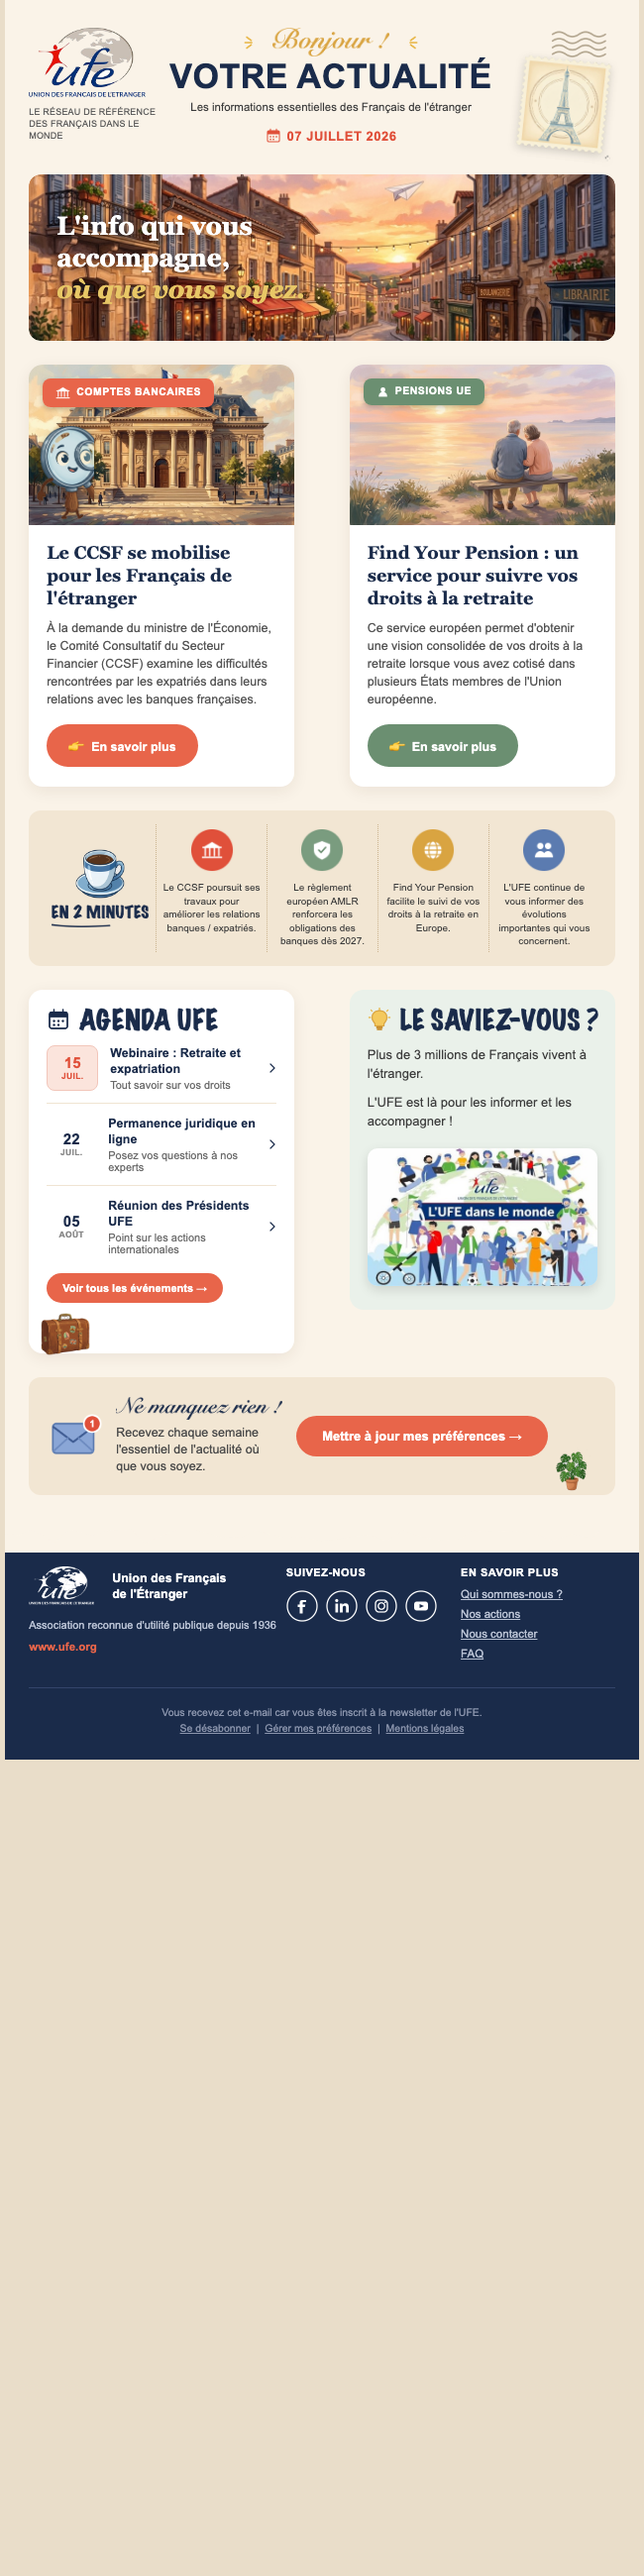
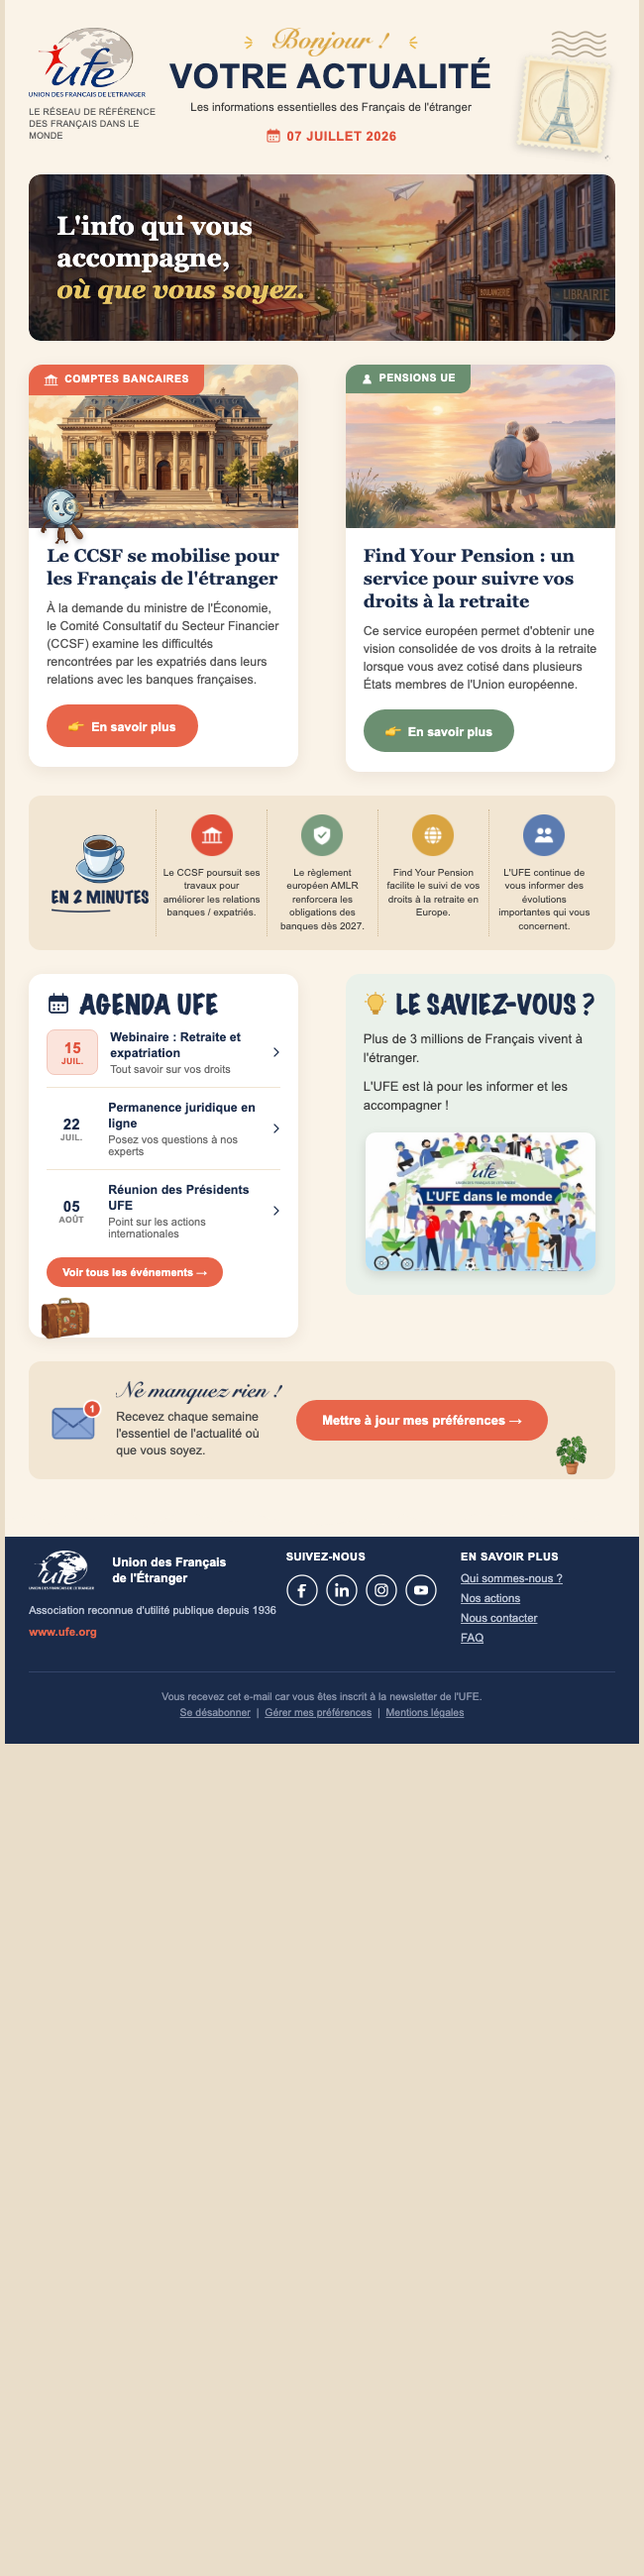
Polish cards, mascot, hero and gaps
- Reduce inter-card gap to 8px (272px cards)
- Category tags flush to the top-left card corner, radius following the card
- Magnifying-glass mascot: use full illustration (light-beam removed, blue glass
  preserved), smaller, straddling the image bottom edge
- Darken hero banner with a left-weighted overlay so the headline pops

Changed region(s): [[0.0, 0.0623, 0.9846, 0.6854]]

diff --git a/newsletter.html b/newsletter.html
@@ -120,18 +120,18 @@
     <td class="px-mobile" style="padding:0 24px 24px 24px; background-color:#faf3e8;">
       <!--[if mso]>
       <table role="presentation" width="100%" cellpadding="0" cellspacing="0" border="0"><tr>
-      <td width="268" valign="top">
+      <td width="272" valign="top">
       <![endif]-->
       <!-- CARD 1 : COMPTES BANCAIRES -->
-      <table role="presentation" class="stack-col" width="268" cellpadding="0" cellspacing="0" border="0" align="left" style="width:268px; max-width:268px; display:inline-block; vertical-align:top; background-color:#ffffff; border-radius:14px; box-shadow:0 4px 16px rgba(60,40,20,.08);">
+      <table role="presentation" class="stack-col" width="272" cellpadding="0" cellspacing="0" border="0" align="left" style="width:272px; max-width:272px; display:inline-block; vertical-align:top; background-color:#ffffff; border-radius:14px; box-shadow:0 4px 16px rgba(60,40,20,.08);">
         <tr>
           <td style="padding:0; position:relative; line-height:0; font-size:0;">
-            <img src="assets/bank-card.jpg" width="268" alt="Façade de la Banque de France à Paris" style="display:block; width:100%; max-width:268px; height:auto; border-radius:14px 14px 0 0;">
+            <img src="assets/bank-card.jpg" width="272" alt="Façade de la Banque de France à Paris" style="display:block; width:100%; max-width:272px; height:auto; border-radius:14px 14px 0 0;">
             <!--[if !mso]><!-->
-            <div style="position:absolute; top:14px; left:14px; z-index:2;">
-              <table role="presentation" cellpadding="0" cellspacing="0" border="0" style="box-shadow:0 2px 5px rgba(0,0,0,.22); border-radius:8px;">
+            <div style="position:absolute; top:0; left:0; z-index:2;">
+              <table role="presentation" cellpadding="0" cellspacing="0" border="0">
                 <tr>
-                  <td style="background-color:#e8654a; border-radius:8px; padding:7px 13px;">
+                  <td style="background-color:#e8654a; border-radius:14px 0 10px 0; padding:8px 15px 8px 15px;">
                     <table role="presentation" cellpadding="0" cellspacing="0" border="0"><tr>
                       <td valign="middle" style="padding-right:6px;"><img src="assets/icons/glyph-bank-white.png" width="15" alt="" style="display:block; width:15px;"></td>
                       <td valign="middle"><span style="font-family:Arial, Helvetica, sans-serif; font-size:10.5px; font-weight:bold; color:#ffffff; letter-spacing:.5px;">COMPTES BANCAIRES</span></td>
@@ -140,8 +140,8 @@
                 </tr>
               </table>
             </div>
-            <div style="position:absolute; left:8px; bottom:6px; z-index:3;">
-              <img src="assets/magnifying-glass.png" width="58" alt="" style="display:block; width:58px; filter:drop-shadow(0 2px 3px rgba(0,0,0,.28));">
+            <div style="position:absolute; left:12px; bottom:-16px; z-index:3;">
+              <img src="assets/magnifying-glass.png" width="44" alt="" style="display:block; width:44px; filter:drop-shadow(0 2px 3px rgba(0,0,0,.28));">
             </div>
             <!--<![endif]-->
           </td>
@@ -170,19 +170,19 @@
       </table>
       <!--[if mso]>
       </td>
-      <td width="16">&nbsp;</td>
-      <td width="268" valign="top">
+      <td width="8">&nbsp;</td>
+      <td width="272" valign="top">
       <![endif]-->
       <!-- CARD 2 : PENSIONS UE -->
-      <table role="presentation" class="stack-col" width="268" cellpadding="0" cellspacing="0" border="0" align="right" style="width:268px; max-width:268px; display:inline-block; vertical-align:top; background-color:#ffffff; border-radius:14px; box-shadow:0 4px 16px rgba(60,40,20,.08);">
+      <table role="presentation" class="stack-col" width="272" cellpadding="0" cellspacing="0" border="0" align="right" style="width:272px; max-width:272px; display:inline-block; vertical-align:top; background-color:#ffffff; border-radius:14px; box-shadow:0 4px 16px rgba(60,40,20,.08);">
         <tr>
           <td style="padding:0; position:relative; line-height:0; font-size:0;">
-            <img src="assets/pensions-card.jpg" width="268" alt="Un couple retraité regarde le coucher du soleil sur la mer" style="display:block; width:100%; max-width:268px; height:auto; border-radius:14px 14px 0 0;">
+            <img src="assets/pensions-card.jpg" width="272" alt="Un couple retraité regarde le coucher du soleil sur la mer" style="display:block; width:100%; max-width:272px; height:auto; border-radius:14px 14px 0 0;">
             <!--[if !mso]><!-->
-            <div style="position:absolute; top:14px; left:14px; z-index:2;">
-              <table role="presentation" cellpadding="0" cellspacing="0" border="0" style="box-shadow:0 2px 5px rgba(0,0,0,.22); border-radius:8px;">
+            <div style="position:absolute; top:0; left:0; z-index:2;">
+              <table role="presentation" cellpadding="0" cellspacing="0" border="0">
                 <tr>
-                  <td style="background-color:#6b8f71; border-radius:8px; padding:7px 13px;">
+                  <td style="background-color:#6b8f71; border-radius:14px 0 10px 0; padding:8px 15px 8px 15px;">
                     <table role="presentation" cellpadding="0" cellspacing="0" border="0"><tr>
                       <td valign="middle" style="padding-right:6px;"><img src="assets/icons/glyph-person-white.png" width="13" alt="" style="display:block; width:13px;"></td>
                       <td valign="middle"><span style="font-family:Arial, Helvetica, sans-serif; font-size:10.5px; font-weight:bold; color:#ffffff; letter-spacing:.5px;">PENSIONS UE</span></td>
@@ -271,9 +271,9 @@
     <td class="px-mobile" style="padding:0 24px 24px 24px; background-color:#faf3e8;">
       <!--[if mso]>
       <table role="presentation" width="100%" cellpadding="0" cellspacing="0" border="0"><tr>
-      <td width="268" valign="top">
+      <td width="272" valign="top">
       <![endif]-->
-      <table role="presentation" class="stack-col" width="268" cellpadding="0" cellspacing="0" border="0" align="left" style="width:268px; max-width:268px; display:inline-block; vertical-align:top; background-color:#ffffff; border-radius:14px; box-shadow:0 4px 16px rgba(60,40,20,.08);">
+      <table role="presentation" class="stack-col" width="272" cellpadding="0" cellspacing="0" border="0" align="left" style="width:272px; max-width:272px; display:inline-block; vertical-align:top; background-color:#ffffff; border-radius:14px; box-shadow:0 4px 16px rgba(60,40,20,.08);">
         <tr>
           <td style="padding:18px 18px 20px 18px;">
             <table role="presentation" cellpadding="0" cellspacing="0" border="0"><tr>
@@ -346,10 +346,10 @@
       </table>
       <!--[if mso]>
       </td>
-      <td width="16">&nbsp;</td>
-      <td width="268" valign="top">
+      <td width="8">&nbsp;</td>
+      <td width="272" valign="top">
       <![endif]-->
-      <table role="presentation" class="stack-col" width="268" cellpadding="0" cellspacing="0" border="0" align="right" style="width:268px; max-width:268px; display:inline-block; vertical-align:top; background-color:#eaf1ea; border-radius:14px;">
+      <table role="presentation" class="stack-col" width="272" cellpadding="0" cellspacing="0" border="0" align="right" style="width:272px; max-width:272px; display:inline-block; vertical-align:top; background-color:#eaf1ea; border-radius:14px;">
         <tr>
           <td style="padding:18px 18px 24px 18px;">
             <table role="presentation" cellpadding="0" cellspacing="0" border="0"><tr>
